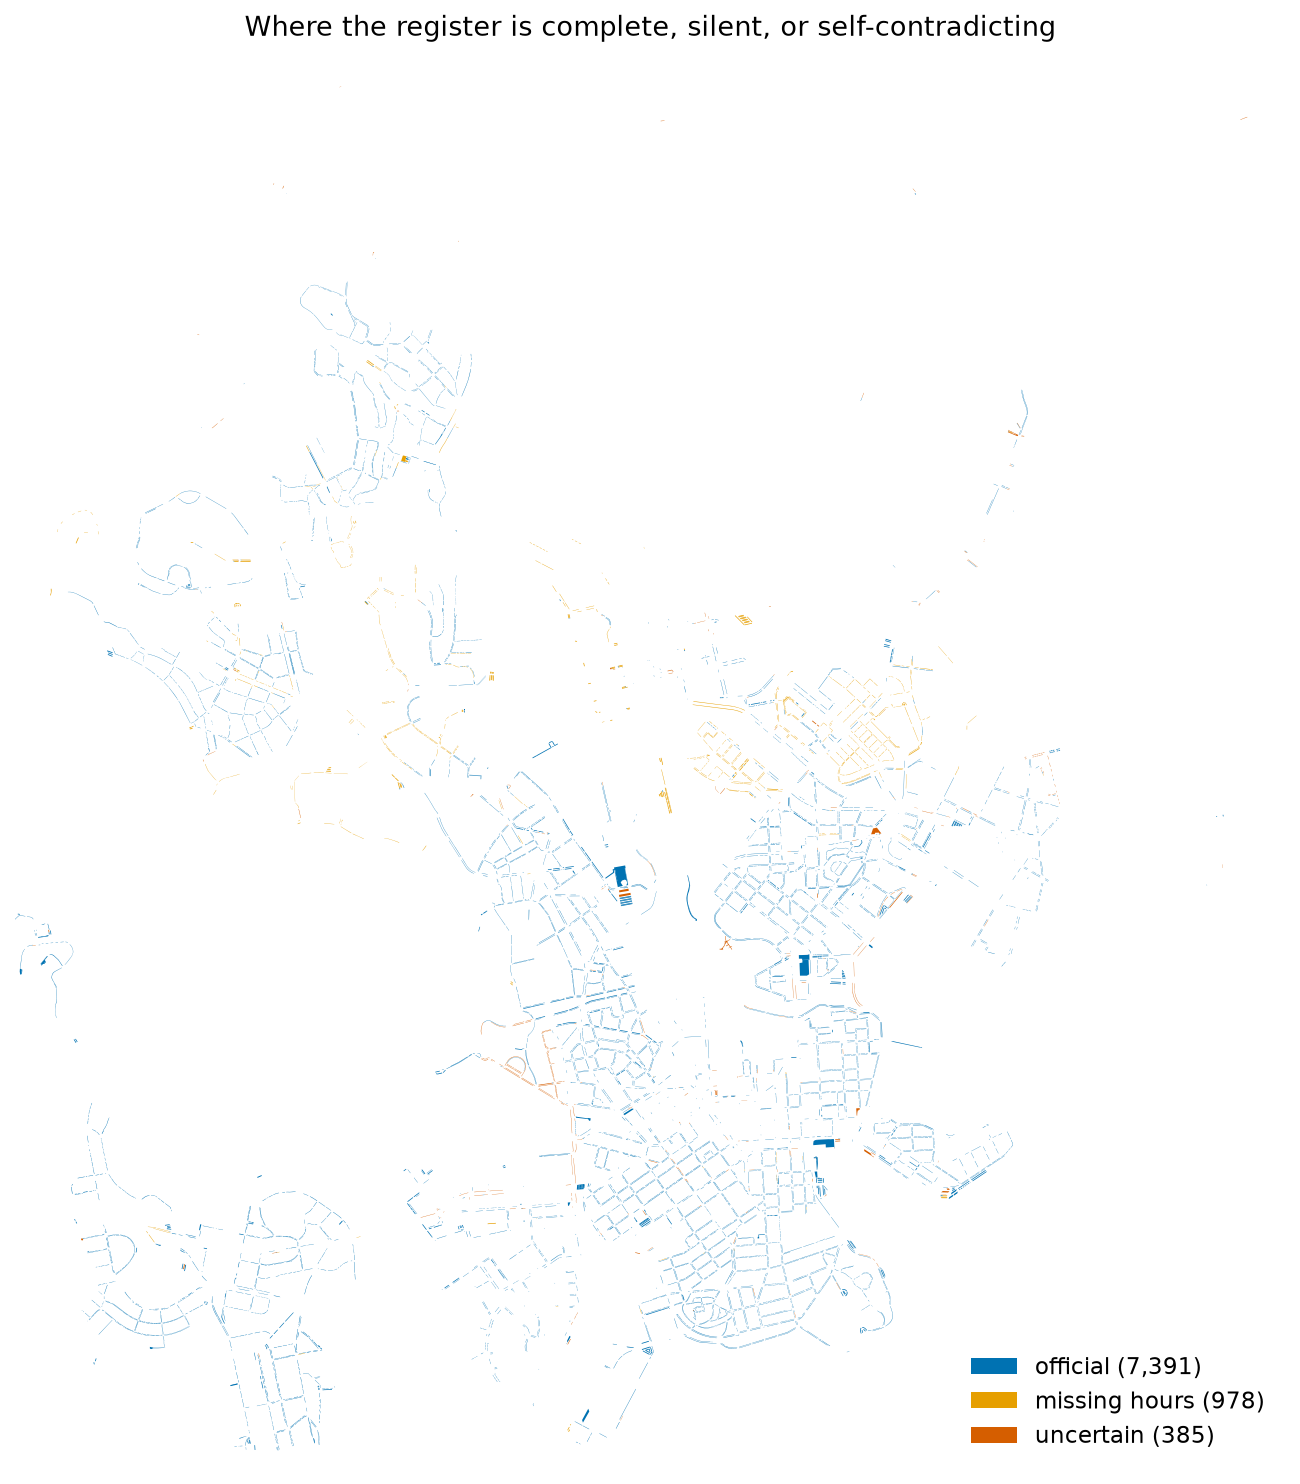
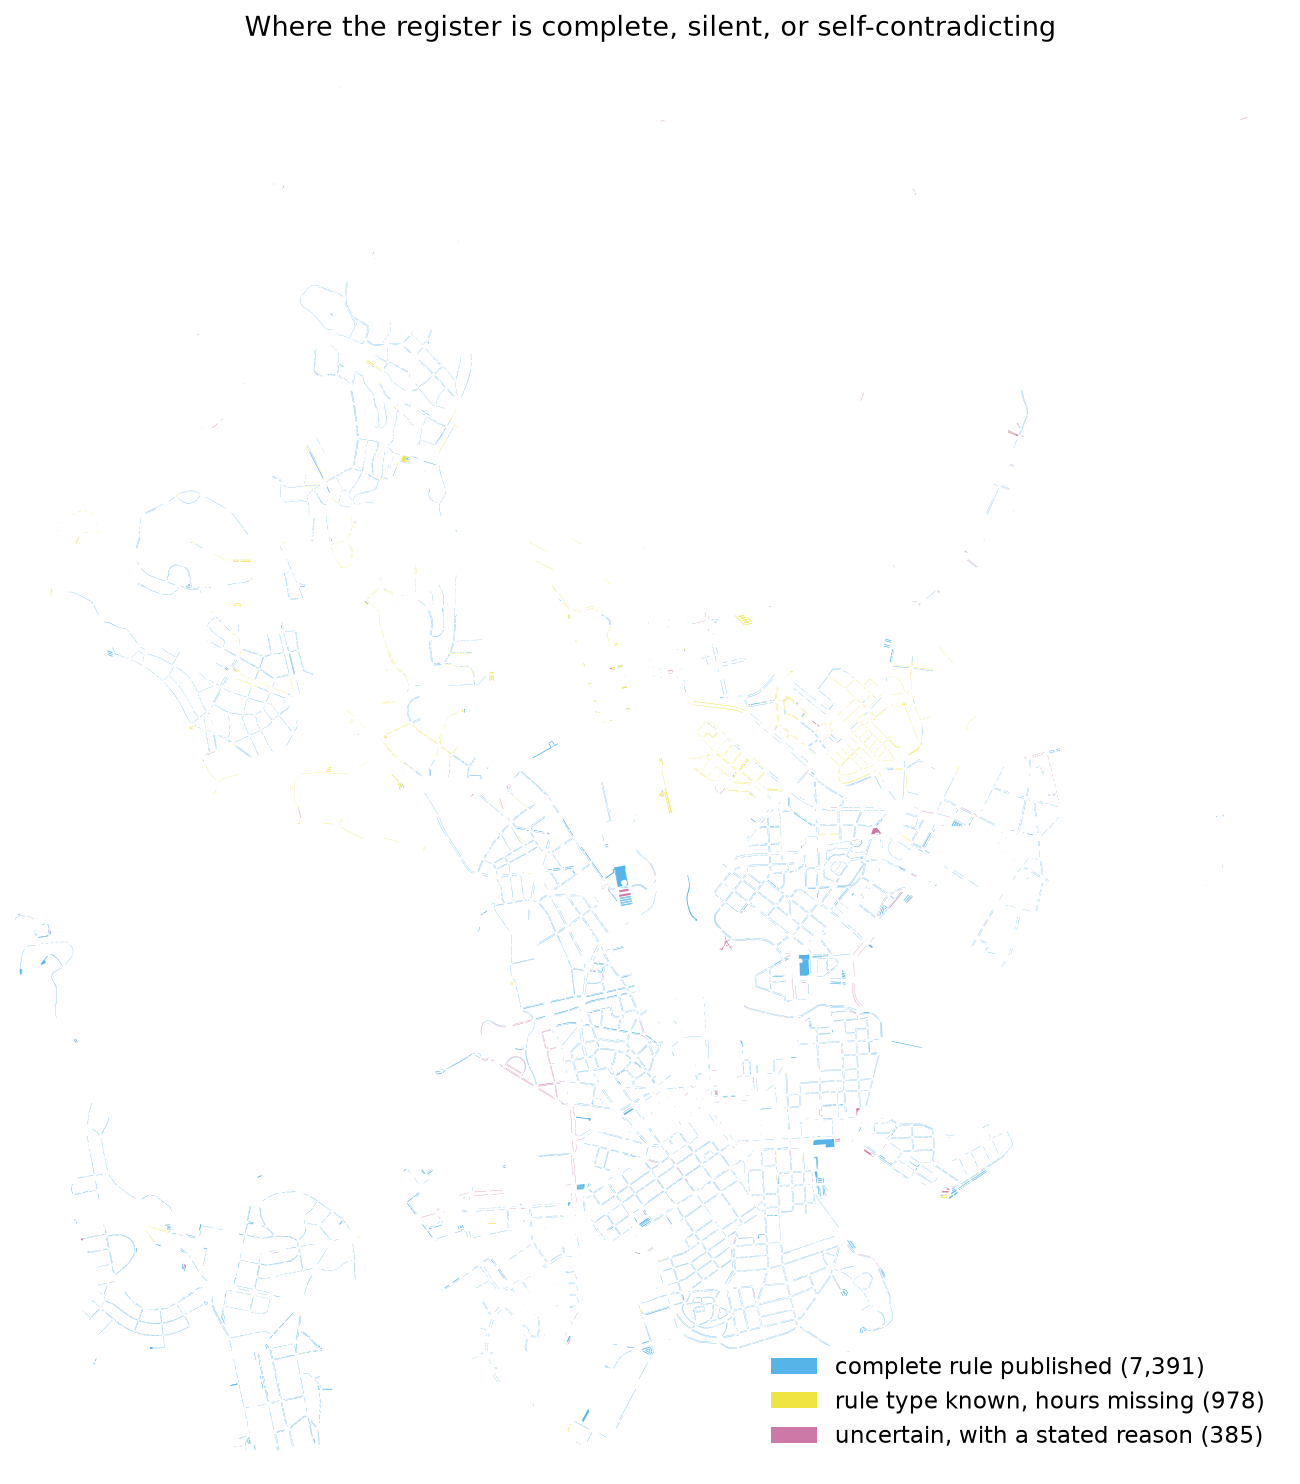
Cleanup pass: let the generator produce what the documents show
Findings from reuse, simplification, efficiency and altitude reviews of this branch.

The generation boundary stopped one step short. The script produced a file nobody read, and the
documents retyped its tables by hand, which had already drifted: the report draft rolled 112
reserved areas into 'motorcycle, bicycle, other' when 60 of them are areas where the register
states no space type at all. That is the one distinction this project exists to make, hidden by
a hand-made bucket. The script now emits the English labels the documents display and keeps
'not stated' as its own row, and the documents copy that table instead of rewriting it.

The claims are narrowed to what is true. Three files said every figure was generated; the fines
count and the measurements of the dataset we rejected are one-off, and the second set can no
longer be recomputed because the layer is gone. They are now sourced where they appear.

The script no longer types a figure by hand either: the chart title took its area count from a
string literal.

The nearest-neighbour join, the distance bins and the baseline were computed once for the table
and again for the chart it illustrates, so the two could silently disagree. Computed once in
main and passed to both. matplotlib is imported only when --figures is passed, which takes the
common run from 0.96 s to 0.74 s.

Status colours no longer borrow the rule-type hues, so the status map's orange cannot be read as
[…]

diff --git a/analysis/report_stats.py b/analysis/report_stats.py
@@ -10,22 +10,27 @@ import argparse
 from pathlib import Path
 
 import geopandas as gpd
-import matplotlib
 import pandas as pd
-
-matplotlib.use("Agg")
-import matplotlib.pyplot as plt  # noqa: E402
 
 SOURCE = Path("data/processed/parking_rules.parquet")
 OUT = Path("docs/report_stats.md")
 FIGURES = Path("docs/figures")
 
-# Okabe-Ito, colour-blind safe, the same palette the app uses.
-COLOURS = {
+# Okabe-Ito, colour-blind safe. RULE_COLOURS mirrors web/src/style.js, so if you recolour the
+# map, recolour it there too. STATUS_COLOURS are deliberately different hues: a reader who has
+# seen the app should not read the status map's orange as "banned at times".
+RULE_COLOURS = {
     "free_limited": "#009E73", "paid": "#0072B2", "banned_hours": "#E69F00",
     "always_banned": "#D55E00", "reserved": "#CC79A7", "unknown": "#999999",
-    "official": "#0072B2", "missing_hours": "#E69F00", "uncertain": "#D55E00",
 }
+STATUS_COLOURS = {"official": "#56B4E9", "missing_hours": "#F0E442", "uncertain": "#CC79A7"}
+STATUS_MEANING = {
+    "official": "Complete rule published",
+    "missing_hours": "Rule type known, hours missing",
+    "uncertain": "Uncertain, with a stated reason",
+}
+DISTANCE_BINS = [0, 10, 50, 200, float("inf")]
+DISTANCE_LABELS = ["0-10 m", "10-50 m", "50-200 m", "over 200 m"]
 
 
 def table(df, title):
@@ -43,43 +48,43 @@ def rule_types(areas):
 
 
 def reserved_for(areas):
-    """What 'reserved' means in practice. Falls back to the Finnish field if labels are absent."""
-    column = "space_type_en" if "space_type_en" in areas.columns else "tyyppi"
-    counts = areas.loc[areas["rule_type"] == "reserved", column].value_counts(dropna=False)
-    df = pd.DataFrame({"Reserved for": counts.index.fillna("not stated"), "Areas": counts.values})
+    """What 'reserved' means in practice, in the words the documents display.
+
+    "not stated" stays its own row: folding it into an "other" bucket would hide the very
+    distinction this project is about.
+    """
+    labels = areas.loc[areas["rule_type"] == "reserved", "space_type_en"]
+    counts = labels.fillna("not stated").value_counts()
+    df = pd.DataFrame({"Reserved for": counts.index, "Areas": counts.values})
     return table(df, "Reserved areas by space type")
 
 
 def coverage(areas):
     counts = areas["status"].value_counts()
-    meaning = {
-        "official": "Complete rule published",
-        "missing_hours": "Rule type known, hours missing",
-        "uncertain": "Uncertain, with a stated reason",
-    }
     df = pd.DataFrame({
-        "Status": [meaning.get(s, s) for s in counts.index],
+        "Status": [STATUS_MEANING.get(s, s) for s in counts.index],
         "Areas": counts.values,
     })
     return table(df, "What the app can answer")
 
 
-def neighbour_accuracy(known):
+def accuracy_by_distance(paired):
+    """Share of correct copies per distance band. Used by both the table and the chart."""
+    bands = pd.cut(paired["dist"], DISTANCE_BINS, labels=DISTANCE_LABELS)
+    return paired.groupby(bands, observed=True)["match"].agg(["mean", "size"])
+
+
+def neighbour_accuracy(paired, by_dist, baseline):
     """Hide each area's hours and copy them from its nearest area of the same class."""
-    paired = nearest_pairs(known)
-    baseline = known["hours"].value_counts().iloc[0] / len(known) * 100
     headline = (
         f"Copying the nearest same-class area is correct "
-        f"**{paired['match'].mean() * 100:.1f}%** of the time "
-        f"({len(paired)} comparisons; ties add a few rows). Always guessing the most common "
-        f"pattern scores **{baseline:.1f}%**.\n"
+        f"**{paired['match'].mean() * 100:.1f}%** of the time, over {len(paired):,} comparisons. "
+        f"Always guessing the most common pattern scores **{baseline:.1f}%**.\n"
     )
-    bins = pd.cut(paired["dist"], [0, 10, 50, 200, float("inf")],
-                  labels=["0-10 m", "10-50 m", "50-200 m", "over 200 m"])
-    by_dist = paired.groupby(bins, observed=True)["match"].agg(["mean", "size"]).reset_index()
-    by_dist.columns = ["Distance to nearest same-class area", "Correct", "Areas"]
-    by_dist["Correct"] = (by_dist["Correct"] * 100).round(1)
-    return headline + "\n" + table(by_dist, "Accuracy by distance")
+    df = by_dist.reset_index().rename(columns={
+        "dist": "Distance to nearest same-class area", "mean": "Correct", "size": "Areas"})
+    df["Correct"] = (df["Correct"] * 100).round(1)
+    return headline + "\n" + table(df, "Accuracy by distance")
 
 
 def prediction_gap(areas, known):
@@ -111,17 +116,21 @@ def nearest_pairs(known):
     return paired
 
 
-def figures(areas, known):
+def figures(areas, paired, by_dist, baseline):
     """Three charts: what the city publishes, what we can answer, where prediction works."""
+    import matplotlib                      # only this path needs a plotting stack
+    matplotlib.use("Agg")
+    import matplotlib.pyplot as plt
+
     FIGURES.mkdir(parents=True, exist_ok=True)
 
     counts = areas["rule_type"].value_counts().sort_values()
     fig, ax = plt.subplots(figsize=(7, 3.5))
-    ax.barh(counts.index, counts.values, color=[COLOURS.get(r, "#999999") for r in counts.index])
+    ax.barh(counts.index, counts.values, color=[RULE_COLOURS[r] for r in counts.index])
     for y, value in enumerate(counts.values):
         ax.text(value + 60, y, f"{value:,}", va="center", fontsize=9)
     ax.set_xlabel("parking areas")
-    ax.set_title("What Helsinki publishes: 8,754 street parking areas")
+    ax.set_title(f"What Helsinki publishes: {len(areas):,} street parking areas")
     ax.spines[["top", "right"]].set_visible(False)
     fig.tight_layout()
     fig.savefig(FIGURES / "rule_types.png", dpi=150)
@@ -136,8 +145,8 @@ def figures(areas, known):
     fig, ax = plt.subplots(figsize=(11, 11 * (maxy - miny) / (maxx - minx)))
     for status in ("official", "missing_hours", "uncertain"):
         group = areas[areas["status"] == status]
-        group.plot(ax=ax, color=COLOURS[status], linewidth=2.5,
-                   label=f"{status.replace('_', ' ')} ({len(group):,})")
+        group.plot(ax=ax, color=STATUS_COLOURS[status], linewidth=2.5,
+                   label=f"{STATUS_MEANING[status].lower()} ({len(group):,})")
     ax.set_xlim(minx, maxx)
     ax.set_ylim(miny, maxy)
     ax.legend(loc="lower right", frameon=False, fontsize=11)
@@ -146,15 +155,9 @@ def figures(areas, known):
     fig.savefig(FIGURES / "status_map.png", dpi=150, bbox_inches="tight")
     plt.close(fig)
 
-    paired = nearest_pairs(known)
-    bins = pd.cut(paired["dist"], [0, 10, 50, 200, float("inf")],
-                  labels=["0-10 m", "10-50 m", "50-200 m", "over 200 m"])
-    by_dist = paired.groupby(bins, observed=True)["match"].agg(["mean", "size"])
-    baseline = known["hours"].value_counts().iloc[0] / len(known) * 100
-
     fig, ax = plt.subplots(figsize=(7, 3.5))
-    ax.bar(by_dist.index.astype(str), by_dist["mean"] * 100, color="#0072B2")
-    ax.axhline(baseline, color="#D55E00", linestyle="--",
+    ax.bar(by_dist.index.astype(str), by_dist["mean"] * 100, color=RULE_COLOURS["paid"])
+    ax.axhline(baseline, color=RULE_COLOURS["always_banned"], linestyle="--",
                label=f"always guess the most common pattern ({baseline:.0f}%)")
     for x, (share, n) in enumerate(zip(by_dist["mean"], by_dist["size"])):
         ax.text(x, share * 100 + 2, f"{share * 100:.1f}%\nn={n:,}", ha="center", fontsize=9)
@@ -180,19 +183,24 @@ def main():
     areas = gpd.read_parquet(SOURCE)
     known = areas[areas["hours"].notna()]
 
+    # The nearest-neighbour join is the expensive step and both the table and the chart need it.
+    paired = nearest_pairs(known)
+    by_dist = accuracy_by_distance(paired)
+    baseline = known["hours"].value_counts().iloc[0] / len(known) * 100
+
     parts = [
         f"# Report figures\n\nGenerated by `analysis/report_stats.py` from "
         f"`{SOURCE}`: {len(areas)} parking areas, {len(known)} of them with stated hours.\n",
         rule_types(areas),
         reserved_for(areas),
         coverage(areas),
-        neighbour_accuracy(known),
+        neighbour_accuracy(paired, by_dist, baseline),
         prediction_gap(areas, known),
     ]
     text = "\n".join(parts)
     print(text)
     if args.figures:
-        figures(areas, known)
+        figures(areas, paired, by_dist, baseline)
     if args.write:
         OUT.write_text(text)
         print(f"written to {OUT}")

diff --git a/docs/report_stats.md b/docs/report_stats.md
@@ -15,29 +15,27 @@ Generated by `analysis/report_stats.py` from `data/processed/parking_rules.parqu
 
 ### Reserved areas by space type
 
-| Reserved for             |   Areas |
-|:-------------------------|--------:|
-| Sähköpotkulauta          |     312 |
-| Sähköauto                |     187 |
-| Taxi                     |     121 |
-| Kuormauspaikka           |     100 |
-| Inva                     |      88 |
-| Matkailuliikenne         |      63 |
-| CD                       |      59 |
-|                          |      56 |
-| Moottoripyörä            |      17 |
-| Polkupyörä               |      14 |
-| Taxi, lataus             |       8 |
-| not stated               |       4 |
-| henkilöauto, pakettiauto |       3 |
-| Virka-auto               |       3 |
-| Poliisi                  |       2 |
-| Kaupunginkanslia         |       1 |
-| Kirjastoauto             |       1 |
-| Parklet                  |       1 |
-| Valtioneuvosto           |       1 |
-| Kuorma-auto              |       1 |
-| Taksi                    |       1 |
+| Reserved for          |   Areas |
+|:----------------------|--------:|
+| Electric scooter      |     312 |
+| Electric car          |     187 |
+| Taxi                  |     122 |
+| Loading zone          |     100 |
+| Accessible parking    |      88 |
+| Tourist coach         |      63 |
+| not stated            |      60 |
+| Diplomatic vehicle    |      59 |
+| Motorcycle            |      17 |
+| Bicycle               |      14 |
+| Taxi, charging        |       8 |
+| Car or van            |       3 |
+| Official vehicle      |       3 |
+| Police                |       2 |
+| City Executive Office |       1 |
+| Mobile library        |       1 |
+| Parklet               |       1 |
+| Finnish Government    |       1 |
+| Lorry                 |       1 |
 
 ### What the app can answer
 
@@ -47,7 +45,7 @@ Generated by `analysis/report_stats.py` from `data/processed/parking_rules.parqu
 | Rule type known, hours missing  |     978 |
 | Uncertain, with a stated reason |     385 |
 
-Copying the nearest same-class area is correct **97.5%** of the time (5834 comparisons; ties add a few rows). Always guessing the most common pattern scores **32.9%**.
+Copying the nearest same-class area is correct **97.5%** of the time, over 5,834 comparisons. Always guessing the most common pattern scores **32.9%**.
 
 ### Accuracy by distance
 

diff --git a/docs/process.md b/docs/process.md
@@ -4,9 +4,11 @@ Parkkiko is a University of Helsinki *Introduction to Data Science* mini-project
 through the six stages of a data science project and points at the code, data and results behind
 each one, so anything claimed here can be checked.
 
-Every figure and table on this page is generated by
-[`analysis/report_stats.py`](../analysis/report_stats.py) from the committed snapshot. Rerun it
-with `--write --figures` and they regenerate.
+The charts below, and the tables in [report_stats.md](report_stats.md) they summarise, are
+generated by [`analysis/report_stats.py`](../analysis/report_stats.py) from the committed
+snapshot. Rerun it with `--write --figures` and they regenerate. Numbers quoted in prose are
+copied from that output; the fines count and the rejected-dataset measurements are one-off and
+sourced where they appear.
 
 ---
 
@@ -62,8 +64,9 @@ answered confidently from the part it recognised: `7-18 7-15` became `7-18`, and
 flagged instead. Every area carries a status, a machine-readable issue code, and a reason in plain
 words.
 
-The pipeline also refuses to write unless ids are unique, geometry is present, the coordinate
-system is EPSG:3879 and every shape is a MultiPolygon.
+The pipeline also refuses to write unless ids are unique and present, every area has a geometry
+it can measure, every shape is a polygon, and the coordinates are metres around Helsinki. That
+last one matters because reading the file asserts the coordinate system rather than verifying it.
 
 ---
 
@@ -127,7 +130,7 @@ neighbours, the distance to them, the class and the district. Planned and partly
 ## 6. Communication
 
 A mobile-friendly map in [`web/`](../web): Vite, React and Leaflet, no backend, with the rules
-precomputed into a single file of about 0.44 MB compressed. Colours are Okabe-Ito, colour-blind
+precomputed into a single file of about 0.4 MB compressed. Colours are Okabe-Ito, colour-blind
 safe, and every colour is paired with a text label.
 
 For anyone who prefers SQL to Python, [querying.md](querying.md) shows how to query the processed

diff --git a/docs/report_draft.md b/docs/report_draft.md
@@ -3,8 +3,10 @@
 Working draft for the 5-page technical report. Sections follow the six stages of a data science
 project.
 
-Every figure below is generated, not typed. Rerun `python analysis/report_stats.py --write` and
-compare against [report_stats.md](report_stats.md); if the register changes, the report follows.
+The tables in section 4 are copied from [report_stats.md](report_stats.md), which
+`python analysis/report_stats.py --write --figures` regenerates from the committed snapshot.
+Re-copy them before submitting. Figures outside section 4, such as the fines count and the
+measurements of the dataset we rejected, are one-off and are sourced where they appear.
 
 ---
 
@@ -80,16 +82,27 @@ where fines happen, and it is the part a driver cannot see from the car.
 
 ### What "reserved" means in practice
 
-| Reserved for | Areas |
-|---|---|
-| Electric scooter | 312 |
-| Electric car | 187 |
-| Taxi | 122 |
-| Loading zone | 100 |
-| Accessible parking | 88 |
-| Tourist coach | 63 |
-| Diplomatic vehicle | 59 |
-| Motorcycle, bicycle, other | 112 |
+| Reserved for          |   Areas |
+|:----------------------|--------:|
+| Electric scooter      |     312 |
+| Electric car          |     187 |
+| Taxi                  |     122 |
+| Loading zone          |     100 |
+| Accessible parking    |      88 |
+| Tourist coach         |      63 |
+| not stated            |      60 |
+| Diplomatic vehicle    |      59 |
+| Motorcycle            |      17 |
+| Bicycle               |      14 |
+| Taxi, charging        |       8 |
+| Car or van            |       3 |
+| Official vehicle      |       3 |
+| Police                |       2 |
+| City Executive Office |       1 |
+| Mobile library        |       1 |
+| Parklet               |       1 |
+| Finnish Government    |       1 |
+| Lorry                 |       1 |
 
 These look like ordinary spaces from the driver's seat. They are the clearest case for the app:
 not a rule to interpret, just "this space is not for you".

diff --git a/docs/canvas-working-notes.md b/docs/canvas-working-notes.md
@@ -1,5 +1,11 @@
 # Mini Project Canvas — DRAFT
 
+> **Historical working draft, superseded.** These notes record how the project was argued out, so
+> the numbers are snapshots from the time each section was written and several are now out of
+> date. The current figures are generated in [report_stats.md](report_stats.md); the submitted
+> canvas is [mini-project-canvas.md](mini-project-canvas.md).
+
+
 **Title (preliminary):** Parkability — where Helsinki's parking rules are misread
 **Group members:** _TBD (3)_
 **Workshop #:** _TBD_
@@ -85,7 +91,7 @@ strings and 25 duration strings fit a hand-checkable lookup table).
 7. **Calendar.** Holiday = Sunday; day before a holiday = Saturday (bracketed hours).
 8. **Spatial index** over parking area geometries for nearest-area lookup from GPS.
 
-**Missing hours (988 areas; 60 in core, 928 outside).** Either left as unknown, or predicted
+**Missing hours (978 areas; the counts below predate the parser fixes).** Either left as unknown, or predicted
 from neighbouring areas, class and district — shown only above a validated confidence threshold
 and labelled as predicted. Decision belongs to the Learning Task block.
 

diff --git a/docs/future-work.md b/docs/future-work.md
@@ -21,7 +21,7 @@ of where drivers are actually fined would let the app warn "this street is often
 the sign", which no rule lookup can do.
 
 **Why it is not in the project.** The fines are geocoded to street addresses, not to the parked
-car: 165,724 fines sit on 10,932 distinct coordinates, with 3,705 at a single address. Only 15%
+car: all 165,724 records sit on 10,932 distinct coordinates, with 3,705 at a single address. Only 15%
 fall within 10 m of a parking area and 41% within 20 m, so a fine cannot be attributed to an area
 or a street side, only to a street. Time resolution is the month, so nothing can be said about the
 hour. Counts also partly reflect where inspectors patrol rather than where rules are broken, which

diff --git a/README.md b/README.md
@@ -64,8 +64,9 @@ Three ways, pick whichever suits you.
 
 ## Report figures
 
-Nothing quoted in the report or the canvas is typed by hand. This regenerates every table and
-chart, so they can be checked and they follow the register when it changes:
+The tables in `docs/report_stats.md` and the charts in `docs/figures/` are generated from the
+committed snapshot, so they can be checked and they follow the register when it changes. The
+canvas is a submission form and is written by hand.
 
 ```bash
 .venv/bin/python analysis/report_stats.py --write --figures   # -> docs/report_stats.md, docs/figures/
